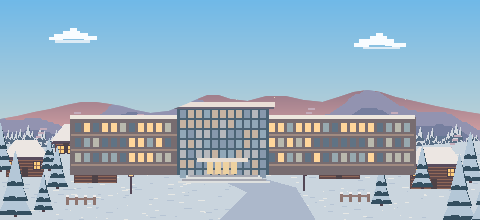
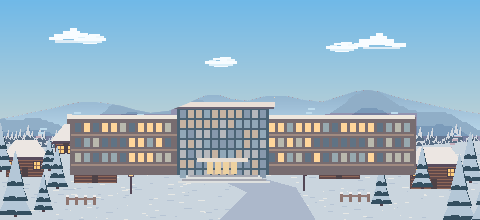
Refine daytime courthouse scene

diff --git a/style.css b/style.css
@@ -5,7 +5,7 @@
   font-display: swap;
 }
 
-*{box-sizing:border-box}body{margin:0;color:#faecd2;background:#182335;font:16px/1.5 Galmuri11,system-ui,sans-serif;background-image:radial-gradient(#39445a 1px,transparent 1px);background-size:22px 22px}header{height:64px;border-bottom:1px solid #415069;background:#1b273b;display:flex;align-items:center;justify-content:space-between;padding:0 max(5vw,calc((100vw - 1050px)/2));color:#b8c5d3;font-size:13px}header b{font: 400 clamp(16px, 4.5vw, 22px)/1.4 Galmuri11, sans-serif;color:#f4dfb9}header i{color:#eac38a}main{max-width:1100px;margin:24px auto;padding:0 18px}.scene{position:relative;overflow:hidden;isolation:isolate;height:clamp(335px,41vw,475px);border:4px solid #736458;outline:2px solid #151a28;background:#394562 url(assets/twilight.png) center bottom/100% 100% no-repeat;image-rendering:pixelated}.hud{position:absolute;inset:14px 16px auto;display:flex;justify-content:space-between}.hud span{background:#263146df;border:1px solid #948a88;color:#f4e4ca;font-size:12px;padding:5px 10px}.title{text-align:center;position:absolute;top:17%;width:100%;text-shadow:2px 3px #394059}.title small{color:#ffe2a4;letter-spacing:3px;font-weight:bold}.title h1{font: bold clamp(34px,6vw,78px)/1.06 Georgia,serif;letter-spacing:-.055em;margin:7px 0;color:#fff1d6}.title p{font-size:14px;margin:0}.quest{display:flex;align-items:center;gap:18px;background:#28364a;padding:11px 20px;border:2px solid #566078;font-size:14px}.quest span{color:#edc986}.quest small{margin-left:auto;color:#bec7d7}.dialog{background:#f4e3c1;color:#41323a;border:6px ridge #a78260;box-shadow:inset 0 0 0 2px #d5b38a,0 5px #101826;margin-top:14px;padding:22px;display:flex;gap:24px;align-items:flex-start}.conversation{flex:1;min-width:0}figure{position:relative;margin:0;padding:4px;background:#bda083;border:3px double #74584f}figure img{display:block;width:96px;image-rendering:pixelated}#mood{position:absolute;right:-6px;top:-8px;color:#924955;background:#ffe9ca;padding:0 5px}#speaker{font-weight:750;color:#855845}h2{font-size:clamp(17px,2vw,22px);margin:5px 0 13px}button,a,input,textarea{font:inherit}button{background:#415869;border:2px solid #2b3b4b;border-bottom-width:4px;color:#fff0d9;padding:9px 16px;cursor:pointer;font-weight:700}button:hover{background:#526f7e}#actions{display:flex;gap:8px;flex-wrap:wrap}input,textarea{width:100%;max-width:440px;padding:10px;background:#fff8e8;border:2px solid #a48268;margin-bottom:10px}#content p{margin:0 0 10px;white-space:pre-line;overflow-wrap:anywhere}a{color:#385466}footer{text-align:center;font-size:11px;letter-spacing:3px;color:#b9a68b;padding:21px}#snow i{position:absolute;width:3px;height:3px;background:#fff9e9;animation:fall linear infinite;opacity:.72;pointer-events:none}@keyframes fall{from{transform:translateY(-12px)}to{transform:translate(18px,480px)}}#item{position:absolute;bottom:16%;left:50%;transform:translateX(-50%);font-size:38px;color:#ffdaa2;text-shadow:2px 2px #382f3a}.court{background-image:url(assets/plaza-day.png?v=1);background-size:100% 100%;background-position:center bottom}.court .title{display:none}.reveal{animation:appear .4s ease-out}@keyframes appear{from{opacity:.15;translate:0 5px}}@media(max-width:620px){header{height:48px}main{margin:12px auto;padding:0 9px}.scene{height:340px;background-size:auto 100%}.title{top:23%}.court{background-size:auto 100%}.quest{font-size:12px;gap:8px;padding:10px}.dialog{padding:14px;gap:12px}figure img{width:52px}.hud{inset:10px 8px auto}.title h1{font-size:clamp(32px,10vw,56px)}button{min-height:44px}}@media(prefers-reduced-motion:reduce){*,*::before{animation:none!important}}
+*{box-sizing:border-box}body{margin:0;color:#faecd2;background:#182335;font:16px/1.5 Galmuri11,system-ui,sans-serif;background-image:radial-gradient(#39445a 1px,transparent 1px);background-size:22px 22px}header{height:64px;border-bottom:1px solid #415069;background:#1b273b;display:flex;align-items:center;justify-content:space-between;padding:0 max(5vw,calc((100vw - 1050px)/2));color:#b8c5d3;font-size:13px}header b{font: 400 clamp(16px, 4.5vw, 22px)/1.4 Galmuri11, sans-serif;color:#f4dfb9}header i{color:#eac38a}main{max-width:1100px;margin:24px auto;padding:0 18px}.scene{position:relative;overflow:hidden;isolation:isolate;height:clamp(335px,41vw,475px);border:4px solid #736458;outline:2px solid #151a28;background:#394562 url(assets/twilight.png) center bottom/100% 100% no-repeat;image-rendering:pixelated}.hud{position:absolute;inset:14px 16px auto;display:flex;justify-content:space-between}.hud span{background:#263146df;border:1px solid #948a88;color:#f4e4ca;font-size:12px;padding:5px 10px}.title{text-align:center;position:absolute;top:17%;width:100%;text-shadow:2px 3px #394059}.title small{color:#ffe2a4;letter-spacing:3px;font-weight:bold}.title h1{font: bold clamp(34px,6vw,78px)/1.06 Georgia,serif;letter-spacing:-.055em;margin:7px 0;color:#fff1d6}.title p{font-size:14px;margin:0}.quest{display:flex;align-items:center;gap:18px;background:#28364a;padding:11px 20px;border:2px solid #566078;font-size:14px}.quest span{color:#edc986}.quest small{margin-left:auto;color:#bec7d7}.dialog{background:#f4e3c1;color:#41323a;border:6px ridge #a78260;box-shadow:inset 0 0 0 2px #d5b38a,0 5px #101826;margin-top:14px;padding:22px;display:flex;gap:24px;align-items:flex-start}.conversation{flex:1;min-width:0}figure{position:relative;margin:0;padding:4px;background:#bda083;border:3px double #74584f}figure img{display:block;width:96px;image-rendering:pixelated}#mood{position:absolute;right:-6px;top:-8px;color:#924955;background:#ffe9ca;padding:0 5px}#speaker{font-weight:750;color:#855845}h2{font-size:clamp(17px,2vw,22px);margin:5px 0 13px}button,a,input,textarea{font:inherit}button{background:#415869;border:2px solid #2b3b4b;border-bottom-width:4px;color:#fff0d9;padding:9px 16px;cursor:pointer;font-weight:700}button:hover{background:#526f7e}#actions{display:flex;gap:8px;flex-wrap:wrap}input,textarea{width:100%;max-width:440px;padding:10px;background:#fff8e8;border:2px solid #a48268;margin-bottom:10px}#content p{margin:0 0 10px;white-space:pre-line;overflow-wrap:anywhere}a{color:#385466}footer{text-align:center;font-size:11px;letter-spacing:3px;color:#b9a68b;padding:21px}#snow i{position:absolute;width:3px;height:3px;background:#fff9e9;animation:fall linear infinite;opacity:.72;pointer-events:none}@keyframes fall{from{transform:translateY(-12px)}to{transform:translate(18px,480px)}}#item{position:absolute;bottom:16%;left:50%;transform:translateX(-50%);font-size:38px;color:#ffdaa2;text-shadow:2px 2px #382f3a}.court{background-image:url(assets/plaza-day.png?v=2);background-size:100% 100%;background-position:center bottom}.court .title{display:none}.reveal{animation:appear .4s ease-out}@keyframes appear{from{opacity:.15;translate:0 5px}}@media(max-width:620px){header{height:48px}main{margin:12px auto;padding:0 9px}.scene{height:340px;background-size:auto 100%}.title{top:23%}.court{background-size:auto 100%}.quest{font-size:12px;gap:8px;padding:10px}.dialog{padding:14px;gap:12px}figure img{width:52px}.hud{inset:10px 8px auto}.title h1{font-size:clamp(32px,10vw,56px)}button{min-height:44px}}@media(prefers-reduced-motion:reduce){*,*::before{animation:none!important}}
 #content a{display:inline-block;margin:0 0 12px}body:has(.court) #item{animation:glimmer 1.5s ease-in-out infinite alternate}@keyframes glimmer{to{translate:0 -7px;filter:brightness(1.2)}}
 
 /* The landscape, quest log and dialogue share one game viewport. */
@@ -51,7 +51,7 @@ figure img { width: 128px; }
   margin: 0 calc(-1 * clamp(10px, 2vw, 24px)) 0;
   background: url(assets/twilight.png) center bottom / cover;
 }
-.court .landscape { background-image: url(assets/plaza-day.png?v=1); background-size: 100% 100%; }
+.court .landscape { background-image: url(assets/plaza-day.png?v=2); background-size: 100% 100%; }
 .landscape .hud { inset-inline: 12px; }
 .scene:not([data-chapter="0"]):not([data-chapter="5"]) .title { display: none; }
 .scene[data-chapter="5"] .title { display: block; z-index: 2; }
@@ -201,8 +201,8 @@ figure img { width: 128px; }
 }
 .scene[data-chapter="3"] .landscape { animation: arrive 620ms steps(8, end); }
 @keyframes arrive {
-  from { filter: brightness(.45); }
-  to { filter: brightness(1); }
+  from { transform: translateY(6px); }
+  to { transform: translateY(0); }
 }
 .scene[data-chapter="5"] #item { animation: seal-pop 560ms steps(7, end), glimmer 1.5s .56s ease-in-out infinite alternate; }
 @keyframes seal-pop {
@@ -284,7 +284,7 @@ figure img { width: 128px; }
 .landscape .hud { z-index: 1; pointer-events: none; }
 
 .court .landscape {
-  background-image: url(assets/court-terrace.png), url(assets/plaza-day.png?v=1);
+  background-image: url(assets/court-terrace.png), url(assets/plaza-day.png?v=2);
   background-size: 100% 100%;
   background-position: center bottom;
 }

diff --git a/index.html b/index.html
@@ -10,7 +10,7 @@
   <meta property="og:image" content="https://loop-by.github.io/once-upon-a-valley/assets/invitation-preview-bouquet.png?v=6">
   <meta property="og:image:alt" content="노을 지는 겨울 마을에서 신랑과 빨간 장미를 든 신부가 손을 맞잡은 픽셀 그림">
   <title>Once Upon a Valley · 별빛 마을의 결혼식</title>
-  <link rel="stylesheet" href="style.css?v=26">
+  <link rel="stylesheet" href="style.css?v=27">
   <script src="effects.js?v=6" defer></script>
   <script src="rsvp.js?v=4" defer></script>
   <script src="quest.js?v=28" defer></script>

diff --git a/quest.js b/quest.js
@@ -120,7 +120,7 @@ function invitation() {
   button('두 사람과 법원으로', details);
 }
 function details() {
-  render(3, 'groom', '저기 불 켜진 건물 보이지? 우리가 결혼할 곳이야.', '✦');
+  render(3, 'groom', '저기 눈 덮인 법원 보이지? 우리가 결혼할 곳이야.', '✦');
   weddingInfo(byId('content'));
   if (replyEndpoint) {
     button('참석 답장 쓰기', () => attendance('wedding'));
